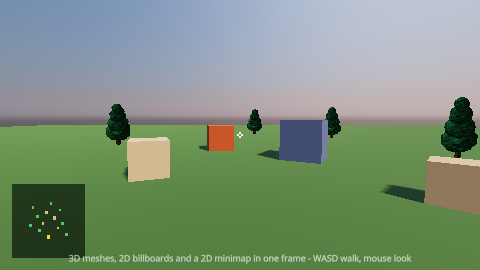
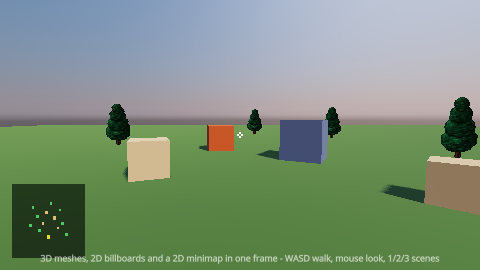
Document and preview the scene keys of the Mixed template

Changed region(s): [[0.0625, 0.9185, 0.9375, 0.9778]]

diff --git a/doc/pages/editor_projects.md b/doc/pages/editor_projects.md
@@ -27,7 +27,7 @@ opens one project at a time and exports it as a game folder players can run with
 | Isometric     | Iso, 2D          | `world`, `iso_world`, `ui`                | Tilemap island, tree and lamp sprites, Lua flag (WASD), camera on it                 |
 | Raycast       | Raycast          | `raycast_world`, `ui`                     | Tilemap room, Lua first-person player (W/S, A/D), HUD hint                           |
 | Voxel         | Voxel, 3D        | `voxel_world`, `ui`                       | Procedural streamed terrain, sky, sun, voxel player (WASD, space)                    |
-| Mixed styles  | Mixed, 3D, 2D... | all of the above, `billboards`, `minimap` | 3D yard, 2D billboard trees and a 2D minimap in one frame; `room.owl`, `terrain.owl` |
+| Mixed styles  | Mixed, 3D, 2D... | all of the above, `billboards`, `minimap` | 3D yard, 2D billboards, 2D minimap in one frame; keys 1-3: `room.owl`, `terrain.owl` |
 
 Every template opens on a playable scene moved with the built-in `move` action, ships an `input_actions.yml` with the
 built-in [input actions](editor_documents.md#editor-action-map) and has a scenario (`test/unit/scenarios/template_*`).
